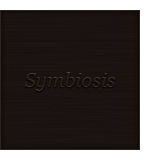
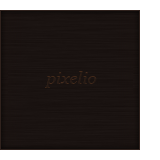
картинки

diff --git a/frontend/views/page/about.html b/frontend/views/page/about.html
@@ -1,10 +1,10 @@
 <div class="about clearfix">
     <div class="fl picture">
-        <img alt="" src="img/pixelio.png" />
+        <img alt="" src="img/pixelio_logo.png" />
         <div>
-            <a class="vk" href="https://twitter.com/pixelioru"></a>
+            <a class="vk" href="https://twitter.com/pixelio_ru"></a>
 			<a class="vk" href="http://vk.com/pixelio"></a>
-            <a class="facebook" href="https://www.facebook.com/pixelioru"></a>
+            <a class="facebook" href="https://www.facebook.com/pages/Pixelio/624883407551429?ref=hl"></a>
         </div>
     </div>
     <div class="fl hello">
